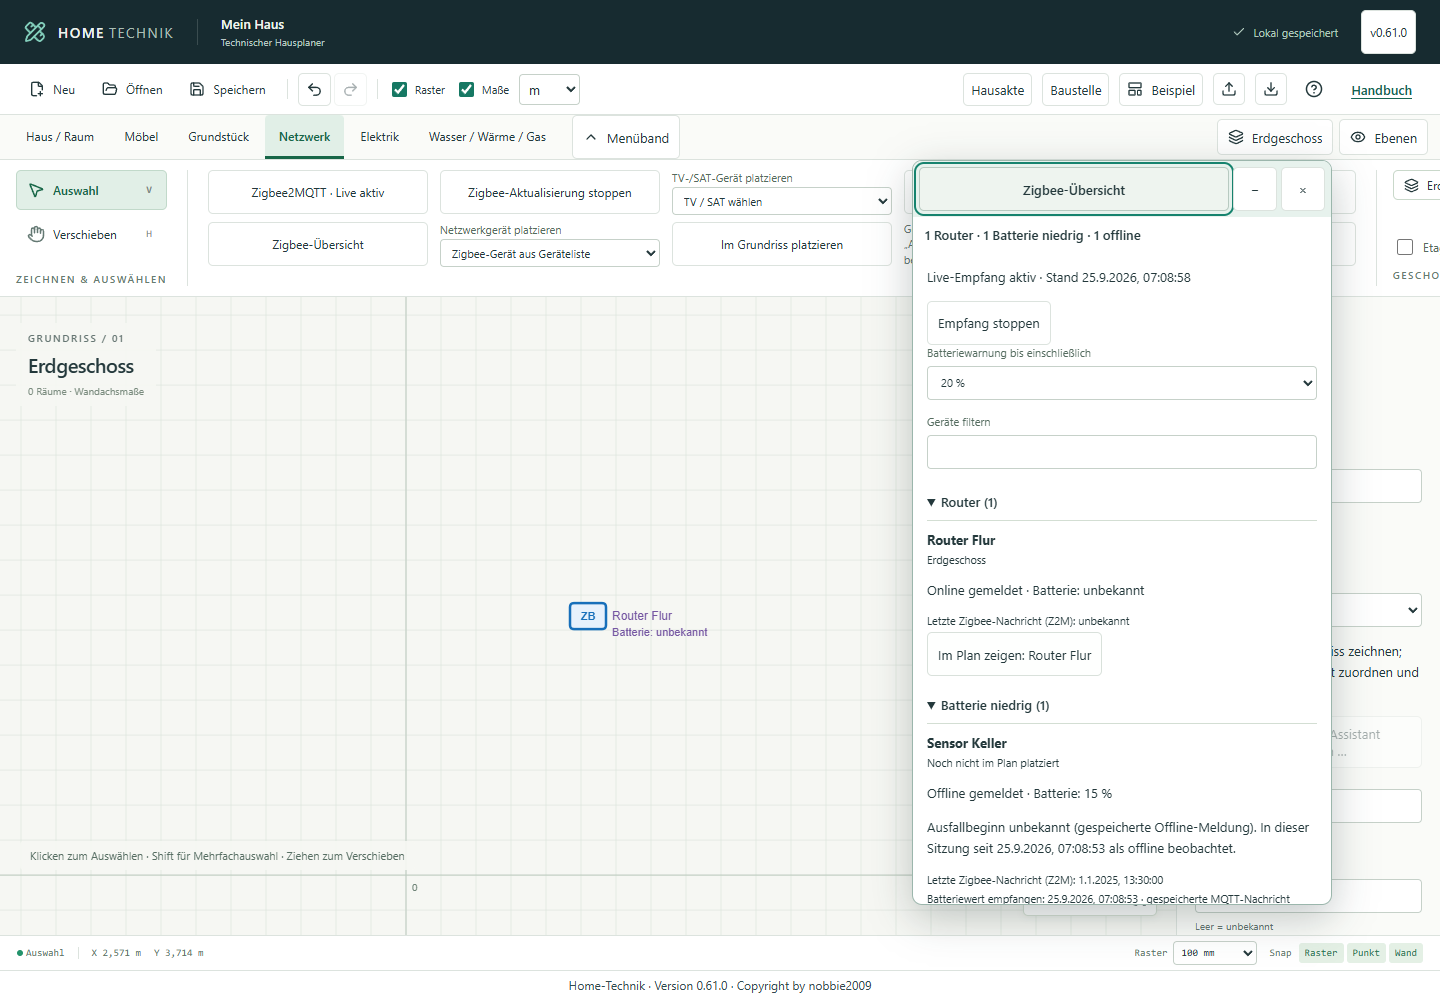
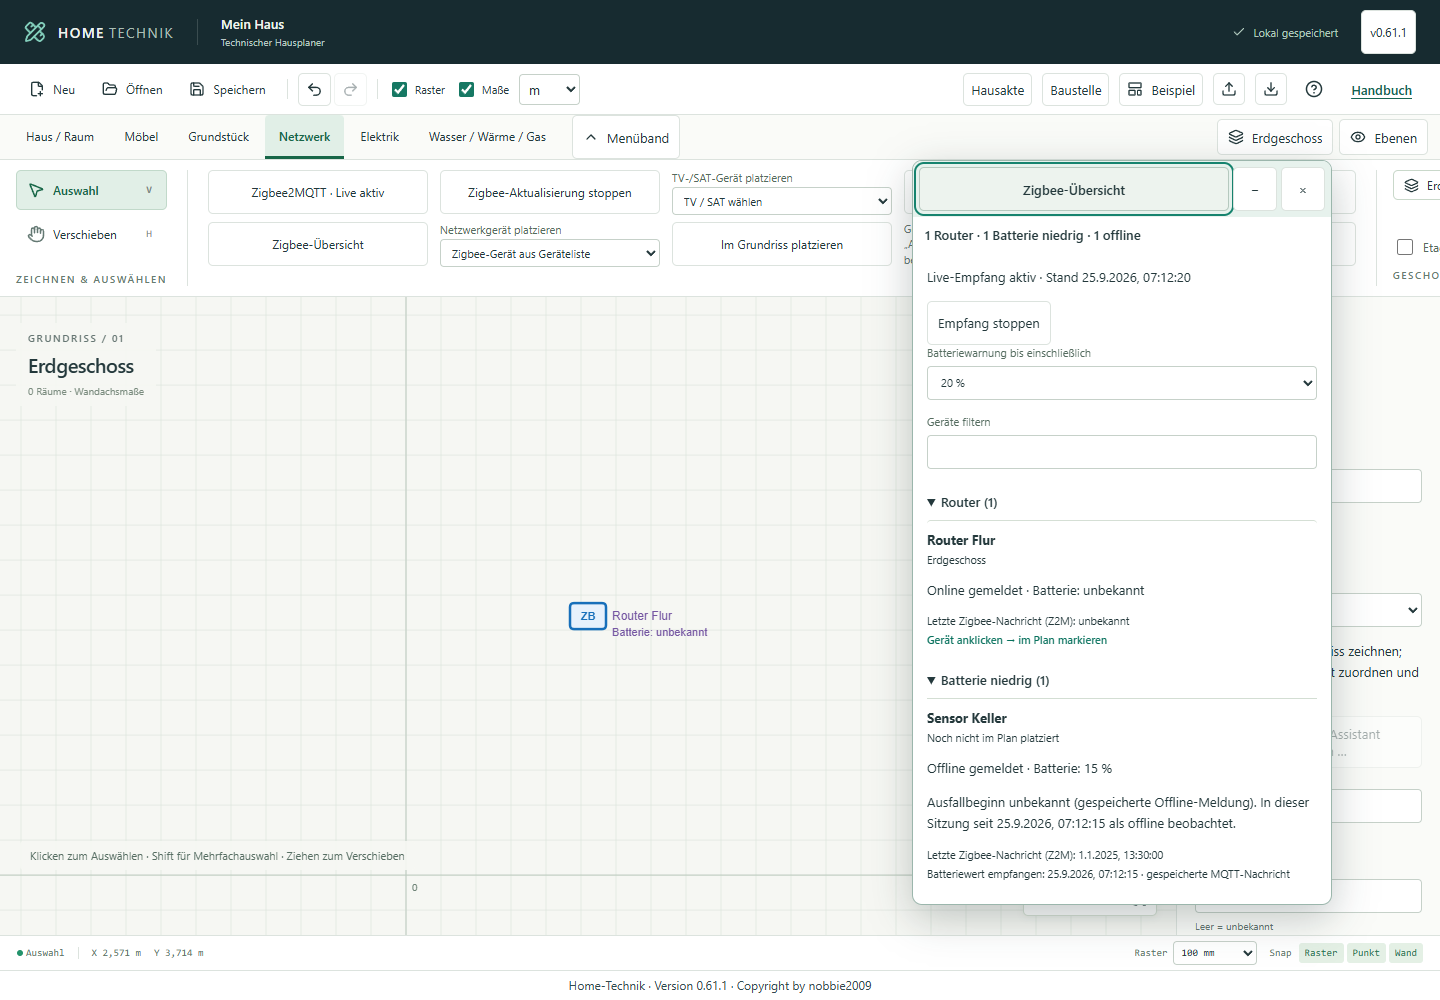
fix: Zigbee-Geräteeintrag direkt im Geschoss auswählen (0.61.1)

Changed region(s): [[0.625, 0.62, 0.9062, 0.899]]

diff --git a/src/components/network/ZigbeeOverview.tsx b/src/components/network/ZigbeeOverview.tsx
@@ -170,8 +170,42 @@ function OverviewWindow() {
                   const value = live[d.address];
                   const node = book.networkNodes.find((n) => n.zigbeeAddress === d.address);
                   const room = node?.roomId ? project.rooms[node.roomId] : undefined;
+                  const showInPlan = () => {
+                    if (!node) return;
+                    useProjectStore.getState().commit("Netzwerkebene einblenden", (p) => {
+                      const layer = Object.values(p.layers).find((l) => l.kind === "network");
+                      if (layer) layer.visible = true;
+                    });
+                    const editor = useEditorStore.getState();
+                    editor.setCategory("network");
+                    editor.setFloor(node.floorId);
+                    useEditorStore.setState({
+                      selection: [{ kind: "networkNodes", id: node.id }],
+                      viewport: {
+                        ...editor.viewport,
+                        originPx: {
+                          x: editor.size.width / 2 - node.position.x * editor.viewport.scale,
+                          y: editor.size.height / 2 + node.position.y * editor.viewport.scale,
+                        },
+                      },
+                    });
+                  };
                   return (
-                    <article key={d.address} className="zigbee-health-device">
+                    <article
+                      key={d.address}
+                      className={`zigbee-health-device${node ? " zigbee-health-selectable" : ""}`}
+                      role={node ? "button" : undefined}
+                      tabIndex={node ? 0 : undefined}
+                      aria-label={node ? `Im Plan zeigen: ${node.name}` : undefined}
+                      onClick={node ? showInPlan : undefined}
+                      onKeyDown={(e) => {
+                        if (node && (e.key === "Enter" || e.key === " ")) {
+                          e.preventDefault();
+                          e.stopPropagation();
+                          showInPlan();
+                        }
+                      }}
+                    >
                       <strong>{node?.name ?? d.name}</strong>
                       {node?.name && node.name !== d.name && <small>Z2M: {d.name}</small>}
                       <small>
@@ -206,25 +240,7 @@ function OverviewWindow() {
                         </small>
                       )}
                       {node && (
-                        <button
-                          onClick={() => {
-                            const editor = useEditorStore.getState();
-                            editor.setCategory("network");
-                            editor.setFloor(node.floorId);
-                            useEditorStore.setState({
-                              selection: [{ kind: "networkNodes", id: node.id }],
-                              viewport: {
-                                ...editor.viewport,
-                                originPx: {
-                                  x: editor.size.width / 2 - node.position.x * editor.viewport.scale,
-                                  y: editor.size.height / 2 + node.position.y * editor.viewport.scale,
-                                },
-                              },
-                            });
-                          }}
-                        >
-                          Im Plan zeigen: {node.name}
-                        </button>
+                        <small className="zigbee-health-action">Gerät anklicken → im Plan markieren</small>
                       )}
                     </article>
                   );

diff --git a/tests/e2e/zigbee-overview.spec.ts b/tests/e2e/zigbee-overview.spec.ts
@@ -1,4 +1,7 @@
 import { test, expect } from "@playwright/test";
+import { createProject } from "../../src/core/projectFactory";
+import { housebook, setHousebook } from "../../src/housebook/model";
+import { addNetworkNode } from "../../src/network/model";
 
 test("Schwebende Zigbee-Übersicht zeigt Router, Batterien und Offline-Zeiten ohne den Plan zu blockieren", async ({
   page,
@@ -64,7 +67,7 @@ test("Schwebende Zigbee-Übersicht zeigt Router, Batterien und Offline-Zeiten oh
   await page.getByRole("tab", { name: "Möbel", exact: true }).click();
   await expect(overview).toBeVisible();
   await expect(page.getByTitle("Auswahl (V)")).toHaveAttribute("aria-pressed", "true");
-  await overview.getByRole("button", { name: "Im Plan zeigen: Router Flur", exact: true }).click();
+  await overview.getByText("Router Flur", { exact: true }).click();
   await expect(page.getByRole("tab", { name: "Netzwerk", exact: true })).toHaveAttribute(
     "aria-selected",
     "true",
@@ -95,4 +98,46 @@ test("Schwebende Zigbee-Übersicht zeigt Router, Batterien und Offline-Zeiten oh
   await overview.getByRole("button", { name: "Zigbee-Übersicht schließen", exact: true }).click();
   await expect(overview).toHaveCount(0);
   expect(scans).toBe(0);
+});
+
+test("Gerätename wechselt zum anderen Geschoss, blendet Netzwerk ein und markiert das Gerät", async ({
+  page,
+}) => {
+  const project = createProject("Zigbee-Beispiel");
+  const upperId = crypto.randomUUID();
+  project.floors[upperId] = {
+    id: upperId,
+    name: "Obergeschoss",
+    elevation: 2800,
+    defaultRoomHeight: 2500,
+    metadata: {},
+  };
+  project.floorOrder.push(upperId);
+  const book = housebook(project);
+  book.zigbee = {
+    devices: [{ address: "0x0000000000000001", name: "Router oben", type: "Router", model: "", vendor: "" }],
+    links: [],
+    scannedAt: null,
+  };
+  setHousebook(project, book);
+  addNetworkNode(project, upperId, { x: 12000, y: 8000 }, "zigbee", "0x0000000000000001");
+  Object.values(project.layers).find((l) => l.kind === "network")!.visible = false;
+  await page.goto("/");
+  await expect(page.getByText("Lokal gespeichert", { exact: true })).toBeVisible();
+  await page.getByLabel("Projektdatei importieren").setInputFiles({
+    name: "zigbee.json",
+    mimeType: "application/json",
+    buffer: Buffer.from(JSON.stringify(project)),
+  });
+  await expect(page.getByText("„Zigbee-Beispiel“ wurde importiert.")).toBeVisible();
+  await expect(page.getByTestId("drawing-surface").getByText("Erdgeschoss", { exact: true })).toBeVisible();
+  await page.getByRole("tab", { name: "Netzwerk", exact: true }).click();
+  await page.getByRole("button", { name: "Zigbee-Übersicht", exact: true }).click();
+  const overview = page.getByRole("dialog", { name: "Zigbee-Übersicht", exact: true });
+  await overview.getByText("Router oben", { exact: true }).first().click();
+  await expect(page.getByTestId("drawing-surface").getByText("Obergeschoss", { exact: true })).toBeVisible();
+  await overview.getByRole("button", { name: "Zigbee-Übersicht schließen", exact: true }).click();
+  if (!(await page.getByLabel("Zigbee-Planname", { exact: true }).isVisible()))
+    await page.getByRole("button", { name: "Eigenschaften", exact: true }).click();
+  await expect(page.getByLabel("Zigbee-Planname", { exact: true })).toHaveValue("Router oben");
 });

diff --git a/src/app/panels.css b/src/app/panels.css
@@ -593,6 +593,21 @@
   display: block;
   margin: 4px 0;
 }
+.zigbee-health-selectable {
+  cursor: pointer;
+  border-radius: 4px;
+}
+.zigbee-health-selectable:hover {
+  background: #edf5f1;
+}
+.zigbee-health-selectable:focus-visible {
+  outline: 2px solid #087e68;
+  outline-offset: -2px;
+}
+.zigbee-health-action {
+  color: #08715d;
+  font-weight: 600;
+}
 .modal.furniture-catalog-dialog {
   width: min(800px, 94vw);
 }

diff --git a/docs/handbuch.md b/docs/handbuch.md
@@ -251,7 +251,7 @@ Router und Netzwerkgeräte gehören in den Bereich **Netzwerk**. Ein Router ist 
 
 Mit **Netzwerk → Zigbee-Übersicht** öffnest du ein schwebendes Fenster. Der Plan bleibt bedienbar und das Fenster bleibt beim Tabwechsel geöffnet. Am Titel ziehen, um es mit Maus oder Finger zu verschieben; mit fokussiertem Titel funktionieren auch die Pfeiltasten. Über **−** einklappen, **+** aufklappen oder **×** schließen. Schließen beendet den laufenden Empfang nicht. Ein Projektwechsel schließt die Übersicht.
 
-Die Gruppen zeigen **Router**, **Batterie niedrig**, **Nicht erreichbar (Z2M)** und **Erreichbarkeit unbekannt**. Als niedriger Batteriestand gilt standardmäßig **höchstens 20 %**; die Grenze lässt sich auf 10 oder 30 % ändern. Eine ausdrücklich gemeldete Batteriewarnung gilt unabhängig von diesem Grenzwert. Fehlende Batteriewerte gelten nicht als leer. Die Suche filtert Gerätenamen, Plannamen und IEEE-Adressen; die Gruppenzähler beziehen sich weiter auf alle Geräte. Platzierte Geräte zeigen Etage und gegebenenfalls Raum. **Im Plan zeigen** wechselt zur passenden Etage und zentriert das Gerät. Nicht platzierte Geräte bleiben ebenfalls in der Übersicht sichtbar.
+Die Gruppen zeigen **Router**, **Batterie niedrig**, **Nicht erreichbar (Z2M)** und **Erreichbarkeit unbekannt**. Als niedriger Batteriestand gilt standardmäßig **höchstens 20 %**; die Grenze lässt sich auf 10 oder 30 % ändern. Eine ausdrücklich gemeldete Batteriewarnung gilt unabhängig von diesem Grenzwert. Fehlende Batteriewerte gelten nicht als leer. Die Suche filtert Gerätenamen, Plannamen und IEEE-Adressen; die Gruppenzähler beziehen sich weiter auf alle Geräte. Platzierte Geräte zeigen Etage und gegebenenfalls Raum. Ein Klick auf den **Gerätenamen oder den gesamten Geräteeintrag** wechselt automatisch zur passenden Etage, blendet bei Bedarf die Netzwerkebene ein, zentriert und markiert das Gerät. Per Tastatur den Eintrag fokussieren und Enter oder Leertaste drücken. Nicht platzierte Geräte bleiben ebenfalls in der Übersicht sichtbar.
 
 **Offline seit wann?** Offline wird nur anhand einer Z2M-Availability-Meldung ausgewiesen. Eine Sendepause oder ein fehlender Link im Netzwerkscan ist kein Ausfallnachweis. Angezeigt wird, seit wann die App das Gerät **in der aktuellen Empfangssitzung als offline beobachtet**. Wiederholte Offline-Meldungen setzen diese Zeit nicht zurück; bei einer Online-Meldung verschwindet der Eintrag aus der Offline-Gruppe. Eine beim Start empfangene gespeicherte Offline-Meldung enthält keinen Ausfallbeginn – dieser bleibt ausdrücklich unbekannt. Auch bei einer neuen Meldung kann Z2M einen Ausfall verzögert erkennen.
 

diff --git a/CHANGELOG.md b/CHANGELOG.md
@@ -1,5 +1,10 @@
 # Änderungen
 
+## 0.61.1 · 25.09.2026
+
+- In allen Gruppen der schwebenden Zigbee-Übersicht den gesamten Eintrag eines platzierten Geräts anklickbar machen. Klick, Enter oder Leertaste wechseln zum Geschoss, blenden die Netzwerkebene ein, zentrieren und markieren das Gerät.
+- Anleitung und Abbildung aktualisieren; Geschosswechsel und Auswahl auch bei zuvor ausgeblendeter Netzwerkebene prüfen.
+
 ## 0.61.0 · 25.09.2026
 
 - Schwebende, verschiebbare und einklappbare Zigbee-Übersicht ergänzen. Router, niedrige Batteriestände, offline gemeldete Geräte und unbekannte Erreichbarkeit gruppieren; Suche und Sprung zum Gerät im Plan unterstützen.
